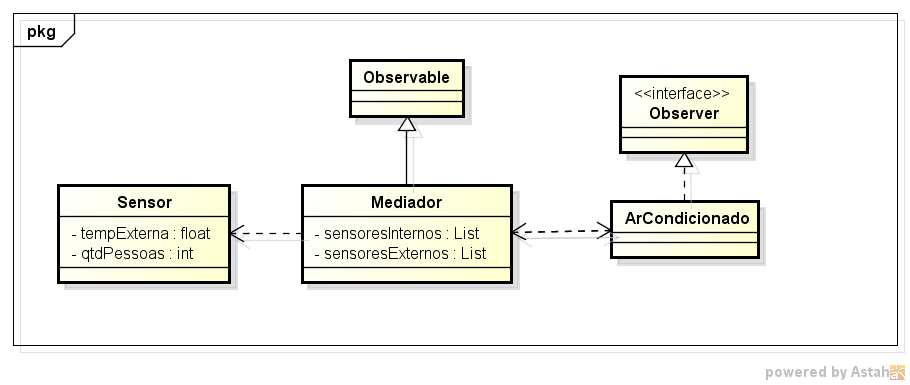
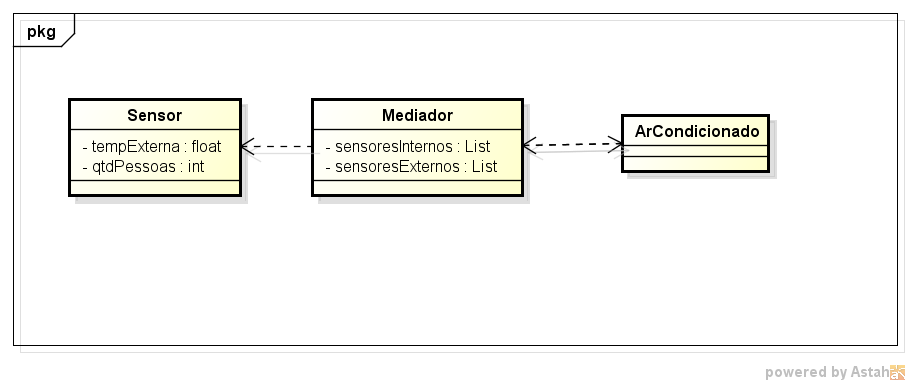
up to date

Changed region(s): [[0.0615, 0.1558, 0.8615, 0.7792]]

diff --git a/exercicio2/src/main/java/Mediador.java b/exercicio2/src/main/java/Mediador.java
@@ -3,7 +3,7 @@ import java.util.Observable;
 
 
 
-public class Mediador extends Observable {
+public class Mediador  {
 
 	private ArrayList<Sensor> sensoresInternos = new ArrayList<Sensor>(); 
 	private ArrayList<Sensor> sensoresExternos= new ArrayList<Sensor>();;
